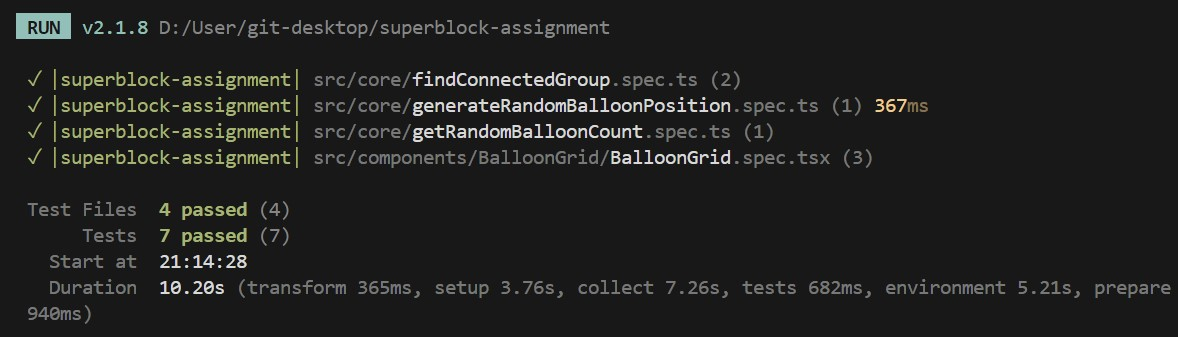
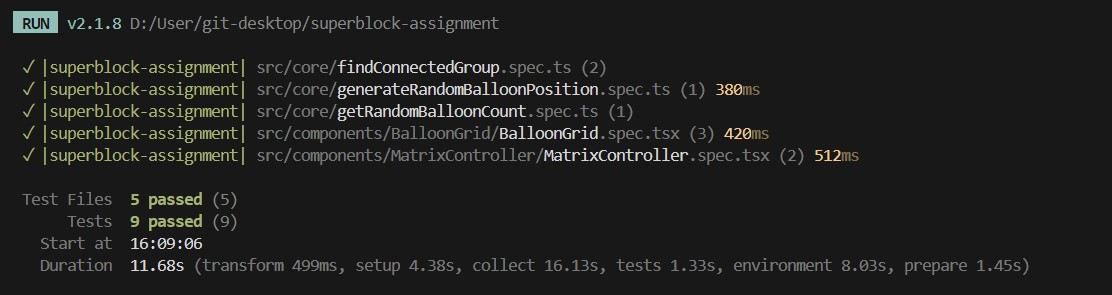
test: Add MatrixController component test

Changed region(s): [[0.0, 0.2136, 0.795, 0.5492], [0.0, 0.5797, 1.0, 0.9458], [0.0, 0.0305, 0.5198, 0.122]]

diff --git a/src/components/MatrixController/MatrixController.spec.tsx b/src/components/MatrixController/MatrixController.spec.tsx
@@ -1,0 +1,36 @@
+import { matrixAtom } from "@/store"
+import userEvent from '@testing-library/user-event'
+import { render, renderHook, waitFor } from "@testing-library/react"
+import { useAtomValue } from "jotai"
+import { describe, expect, it } from "vitest"
+import MatrixController from "./MatrixController"
+
+
+describe("MatrixController Component", () => {
+  it("should be set to 5 for the initial matrix.", () => {
+    const { result } = renderHook(() => useAtomValue(matrixAtom))
+
+    expect(result.current).toBe(5)
+  })
+
+  it("should change the matrix value via InputNumber", async () => {
+    const rendered = render(<MatrixController />)
+
+    const { result } = renderHook(() => useAtomValue(matrixAtom))
+
+    const upButton = rendered.getAllByRole('button')[0]
+    const downButton = rendered.getAllByRole('button')[1]
+
+    userEvent.click(upButton)
+    await waitFor(() => expect(result.current).toBe(6))
+
+    userEvent.click(upButton)
+    await waitFor(() => expect(result.current).toBe(7))
+
+    userEvent.click(downButton)
+    await waitFor(() => expect(result.current).toBe(6))
+
+    userEvent.click(downButton)
+    await waitFor(() => expect(result.current).toBe(5))
+  })
+})
